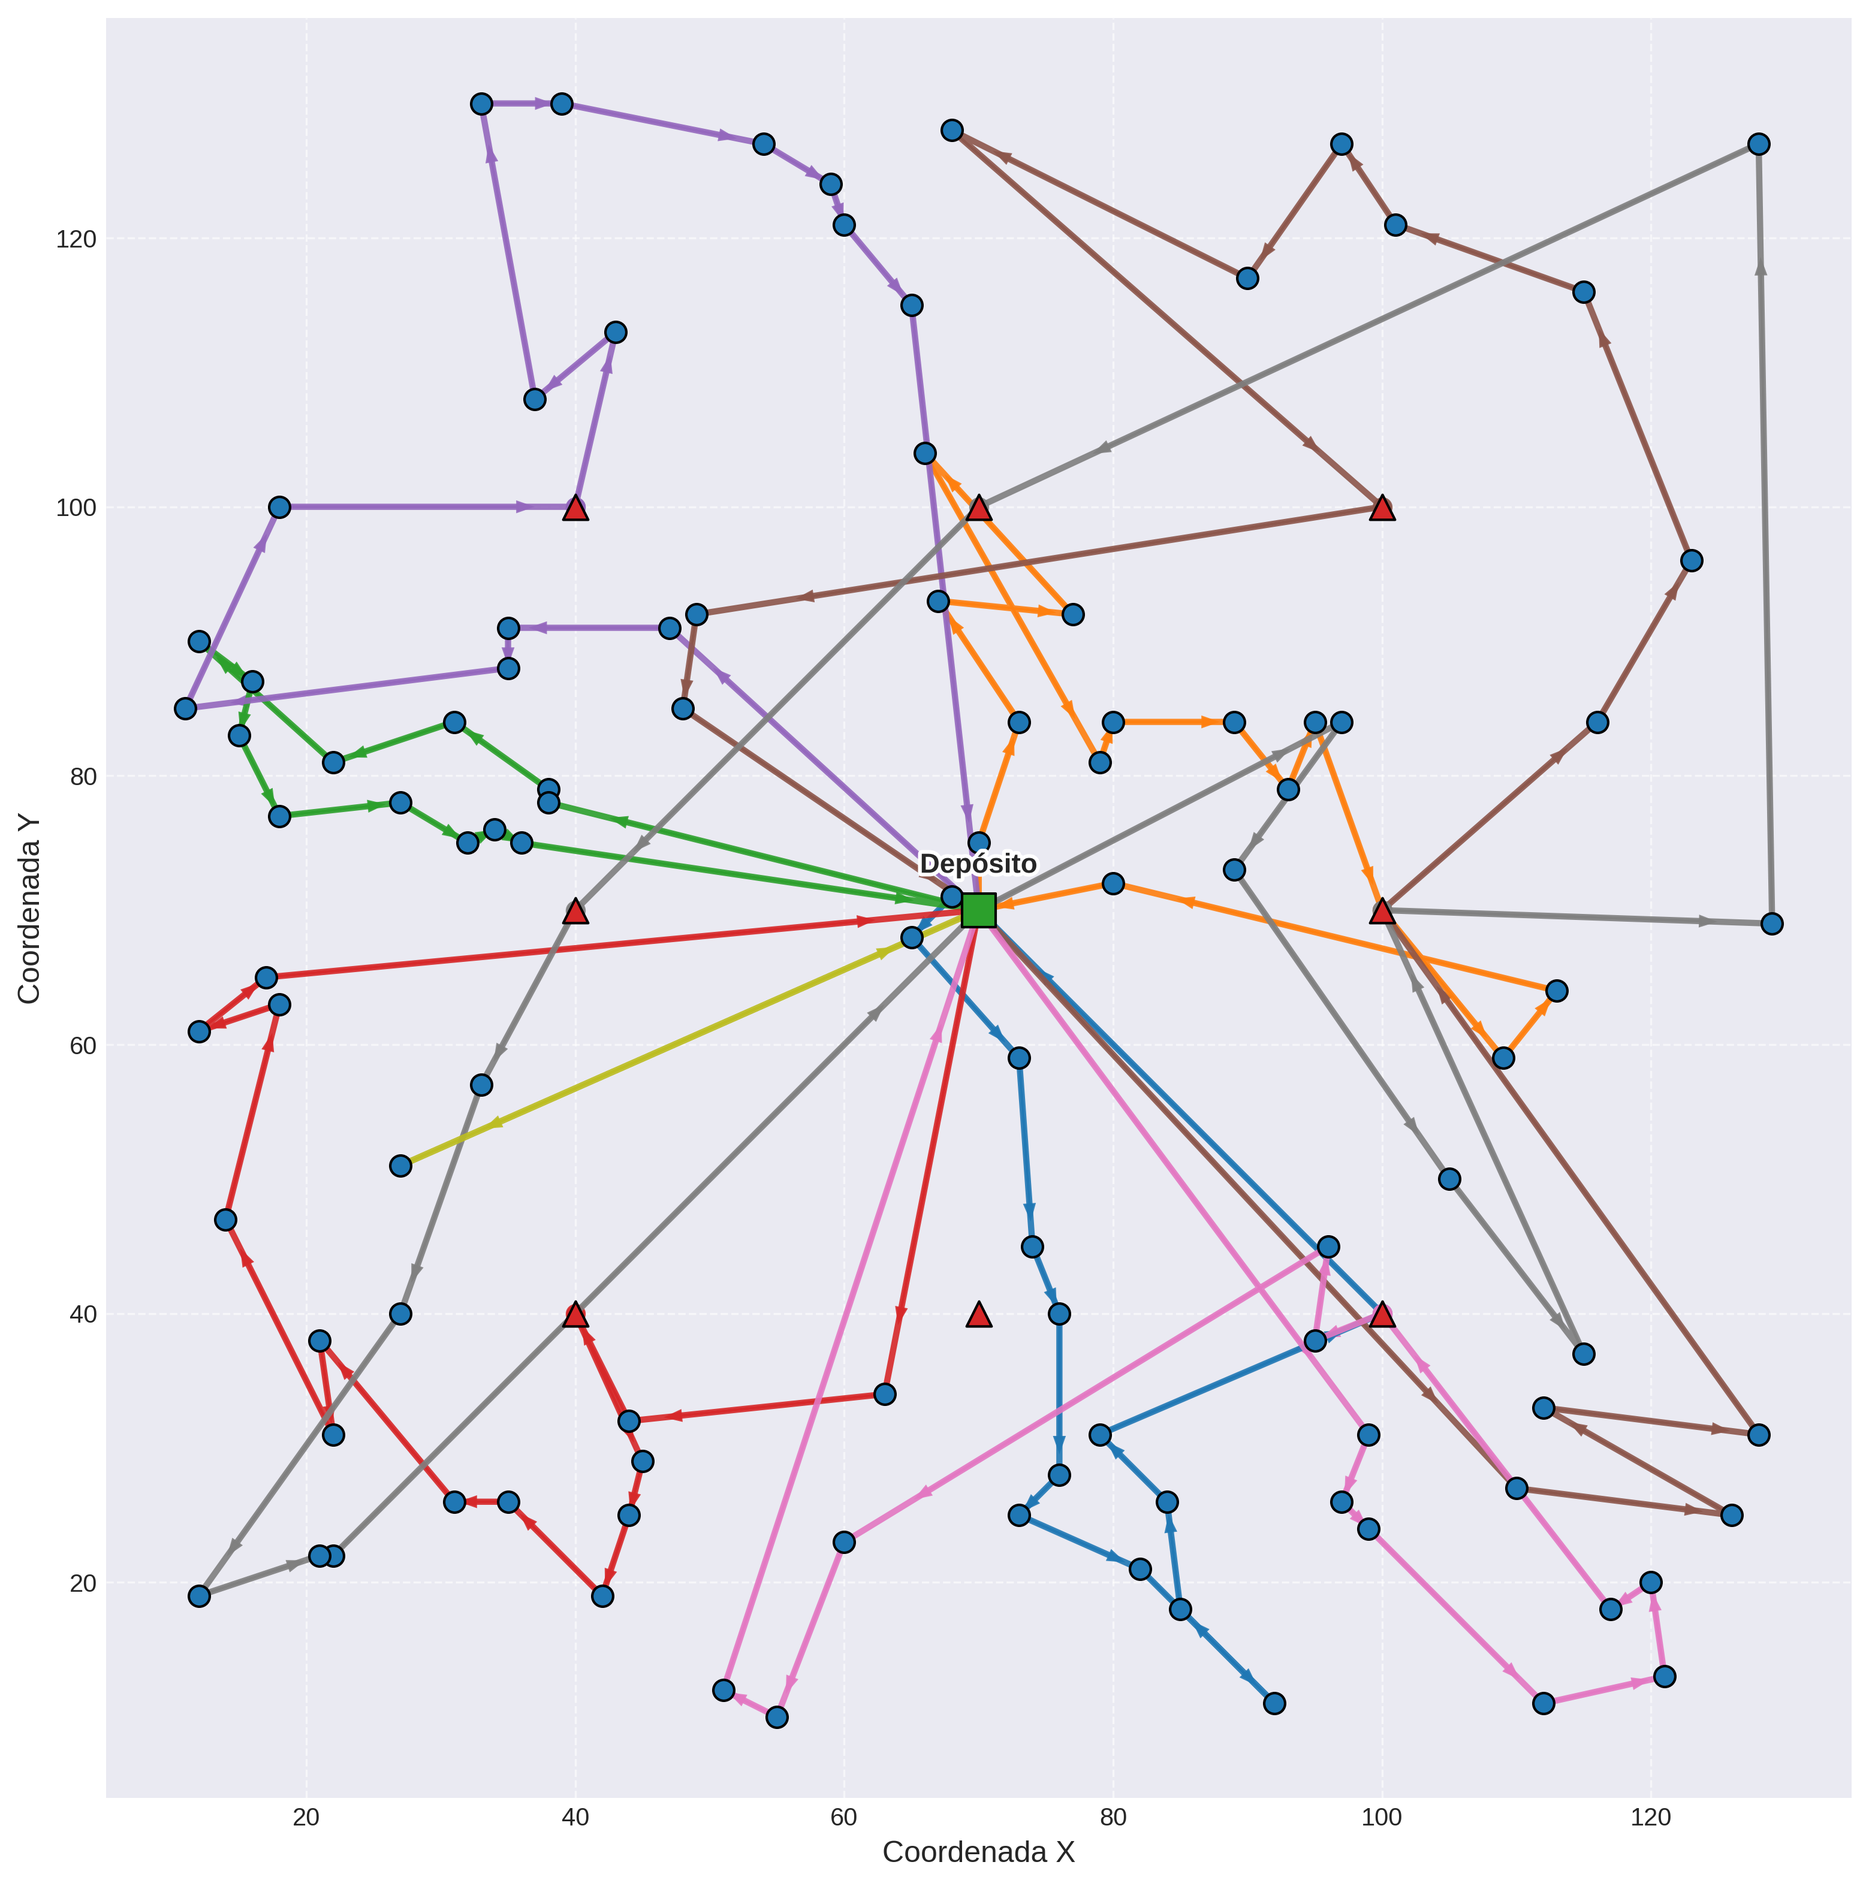
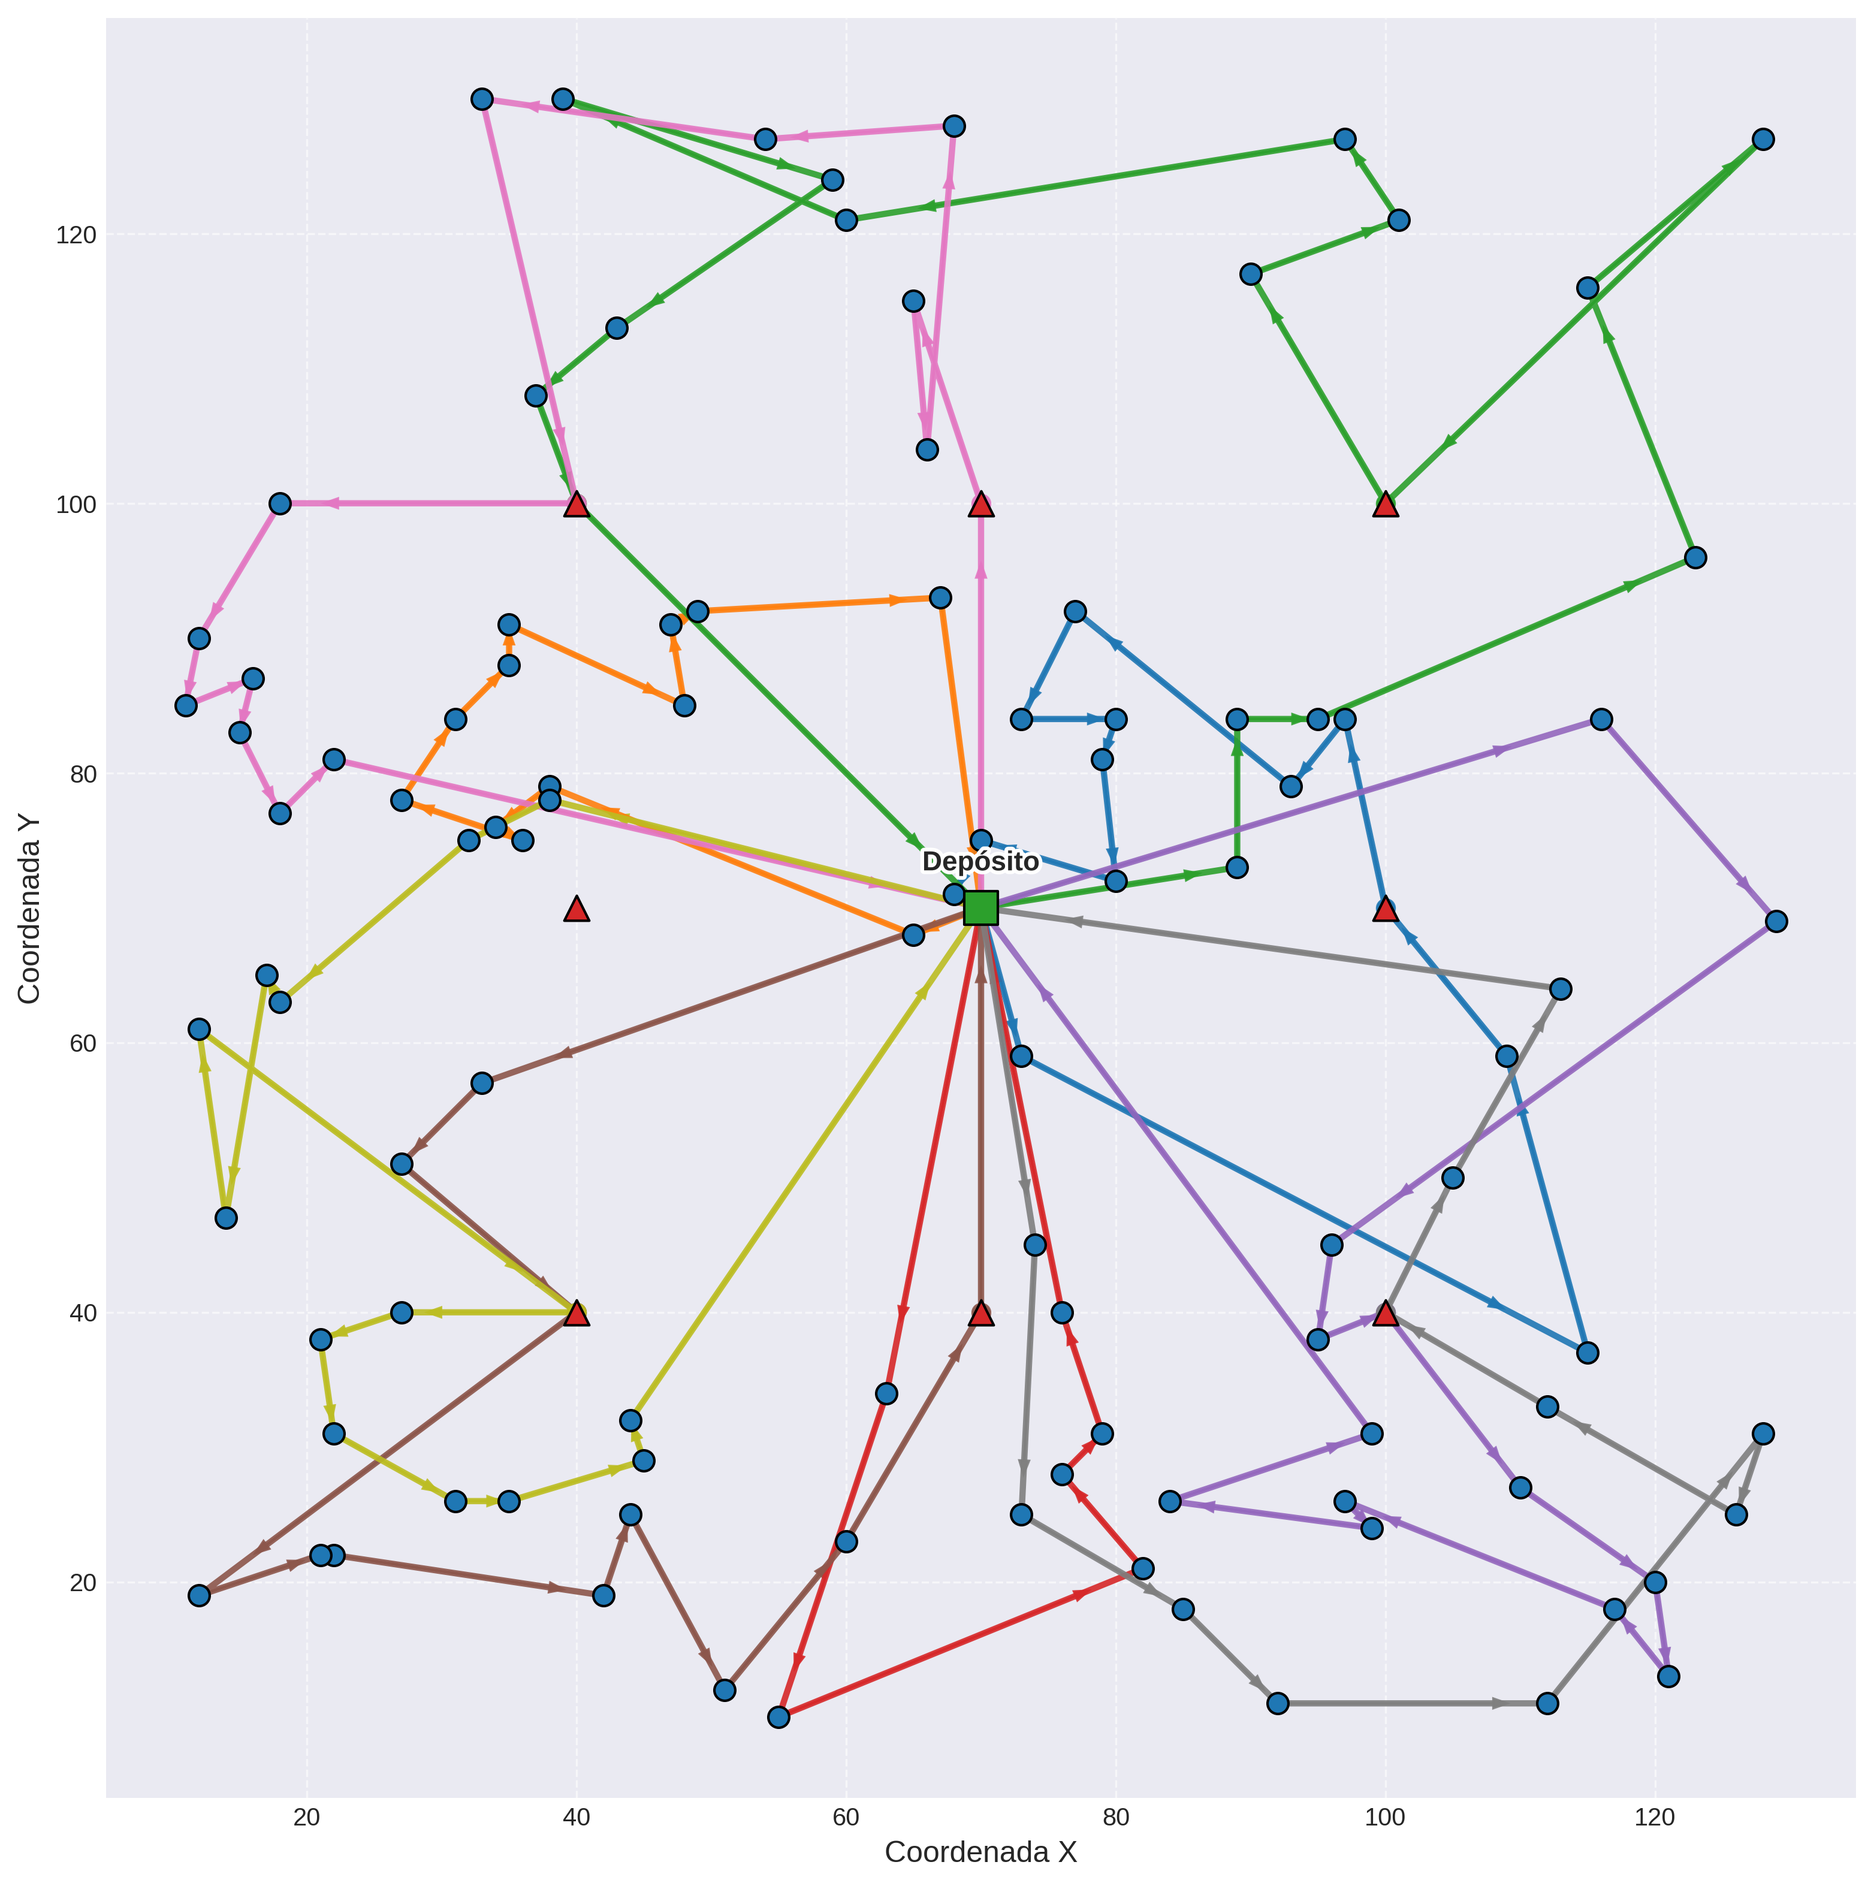
adjust 2opt*

diff --git a/src/EVRP/local_search/two_opt_star.py b/src/EVRP/local_search/two_opt_star.py
@@ -15,174 +15,109 @@ class TwoOptStar:
 
     def local_search(self, solution: 'Solution') -> bool:
         """
-        Apply 2-opt* to all routes in a solution.
+        Apply 2-opt star to all route pairs in a solution.
         Returns True if any improvement was made, False otherwise.
         """
         if len(solution.routes) < 2:
             return False
-            
+        
         return self.two_opt_star(solution)
     
     def perturbation(self, solution: 'Solution') -> 'Solution':
         """
-        Apply 2-opt* perturbation to all routes in a solution.
-        Returns the modified solution.
+        Apply 2-opt star perturbation to all route pairs in a solution.
         """
-        self.two_opt_star(solution)
+        for _ in range(self.max_iter):
+            self.local_search(solution)
+        
         return solution
     
     def two_opt_star(self, solution: 'Solution') -> bool:
         """
-        Apply 2-opt* inter-route optimization.
-        Two deliveries, gi∈Ra and gj∈Rb (a≠b), are chosen. Then, the edges connecting 
-        gi to gi+1 and gj to gj+1 are removed. Two new edges are added adjoining 
-        gi with gj+1 and gj with gi+1.
-        
+        Apply 2-opt star inter-route optimization using random selection.
+        Swaps tails between two routes to improve the solution.
         Returns True if any improvement was made, False otherwise.
         """
         if len(solution.routes) < 2:
             return False
+        
+        improved = True
+        total_improvements = 0
+        max_attempts = 50  # Maximum number of random attempts per iteration
+        
+        while improved:
+            improved = False
+            attempts = 0
             
-        # Find all customer positions across all routes
-        customer_positions = self._get_customer_positions(solution)
-        
-        if len(customer_positions) < 2:
-            return False
-        
-        best_improvement = None
-        best_delta = 0
-        
-        # Try all possible 2-opt* moves
-        for i, (route_a_idx, pos_i) in enumerate(customer_positions):
-            for j, (route_b_idx, pos_j) in enumerate(customer_positions[i+1:], i+1):
-                if route_a_idx == route_b_idx:
-                    continue  # Skip same route
+            while attempts < max_attempts and not improved:
+                attempts += 1
                 
-                # Calculate improvement for this move
-                delta = self._calculate_move_delta(solution, route_a_idx, pos_i, route_b_idx, pos_j)
+                # Randomly select two different routes
+                route_indices = random.sample(range(len(solution.routes)), 2)
+                i, j = route_indices[0], route_indices[1]
                 
-                if delta > best_delta:
-                    best_improvement = (route_a_idx, pos_i, route_b_idx, pos_j)
-                    best_delta = delta
+                route_a = solution.routes[i]
+                route_b = solution.routes[j]
+                
+                # Skip if routes are too short (need at least depot + 1 node + depot)
+                if len(route_a.nodes) <= 3 or len(route_b.nodes) <= 3:
+                    continue
+                
+                # Randomly select cut positions in both routes
+                cut_a = random.randint(1, len(route_a.nodes) - 2)  # Skip depot positions
+                cut_b = random.randint(1, len(route_b.nodes) - 2)  # Skip depot positions
+                
+                # Create new routes by swapping tails
+                new_route_a, new_route_b = self._swap_tails(route_a, route_b, cut_a, cut_b)
+                
+                # Evaluate the new routes
+                new_route_a.evaluate(self.instance)
+                new_route_b.evaluate(self.instance)
+                
+                # Check if both routes are feasible and better
+                if (new_route_a.is_feasible and new_route_b.is_feasible and
+                    self._is_improvement(route_a, route_b, new_route_a, new_route_b)):
+                    
+                    # Accept the swap
+                    route_a.nodes = new_route_a.nodes
+                    route_a.charging_decisions = new_route_a.charging_decisions
+                    route_a.evaluate(self.instance)
+                    
+                    route_b.nodes = new_route_b.nodes
+                    route_b.charging_decisions = new_route_b.charging_decisions
+                    route_b.evaluate(self.instance)
+                    
+                    improved = True
+                    total_improvements += 1
         
-        # Apply the best improvement if found
-        if best_improvement and best_delta > 0:
-            self._apply_move(solution, *best_improvement)
-            solution.evaluate()
-            return True
-        
-        return False
+        return total_improvements > 0
     
-    def _get_customer_positions(self, solution: 'Solution') -> List[Tuple[int, int]]:
+    def _swap_tails(self, route_a: Route, route_b: Route, cut_a: int, cut_b: int) -> Tuple[Route, Route]:
         """
-        Get all customer positions across all routes.
-        Returns list of (route_index, position_in_route) tuples.
+        Create new routes by swapping tails after cut positions.
         """
-        positions = []
-        for route_idx, route in enumerate(solution.routes):
-            for pos, node in enumerate(route.nodes):
-                if node.type == NodeType.CUSTOMER:
-                    positions.append((route_idx, pos))
-        return positions
+        new_route_a = copy.deepcopy(route_a)
+        new_route_b = copy.deepcopy(route_b)
+        
+        # Swap tails: route_a gets head of route_a + tail of route_b
+        # route_b gets head of route_b + tail of route_a
+        new_route_a.nodes = route_a.nodes[:cut_a] + route_b.nodes[cut_b:]
+        new_route_b.nodes = route_b.nodes[:cut_b] + route_a.nodes[cut_a:]
+        
+        return new_route_a, new_route_b
     
-    def _calculate_move_delta(self, solution: 'Solution', route_a_idx: int, pos_i: int, 
-                           route_b_idx: int, pos_j: int) -> float:
+    def _is_improvement(self, old_route_a: Route, old_route_b: Route, 
+                       new_route_a: Route, new_route_b: Route) -> bool:
         """
-        Calculate the improvement (delta) of a 2-opt* move.
-        Positive delta means improvement.
+        Check if the new route pair is better than the old one.
         """
-        route_a = solution.routes[route_a_idx]
-        route_b = solution.routes[route_b_idx]
+        old_total_cost = old_route_a.total_cost + old_route_b.total_cost
+        old_total_distance = old_route_a.total_distance + old_route_b.total_distance
         
-        # Get the nodes involved in the move
-        gi = route_a.nodes[pos_i]  # Customer i in route A
-        gi_plus_1 = route_a.nodes[pos_i + 1]  # Next node after gi in route A
+        new_total_cost = new_route_a.total_cost + new_route_b.total_cost
+        new_total_distance = new_route_a.total_distance + new_route_b.total_distance
         
-        gj = route_b.nodes[pos_j]  # Customer j in route B  
-        gj_plus_1 = route_b.nodes[pos_j + 1]  # Next node after gj in route B
-        
-        # Calculate current edge costs
-        current_cost_a = self.instance.distance_matrix[gi.id][gi_plus_1.id]
-        current_cost_b = self.instance.distance_matrix[gj.id][gj_plus_1.id]
-        current_total = current_cost_a + current_cost_b
-        
-        # Calculate new edge costs
-        new_cost_a = self.instance.distance_matrix[gi.id][gj_plus_1.id]
-        new_cost_b = self.instance.distance_matrix[gj.id][gi_plus_1.id]
-        new_total = new_cost_a + new_cost_b
-        
-        # Delta is the improvement (negative means worse)
-        delta = current_total - new_total
-        
-        # Check if the move would create feasible routes
-        if not self._is_move_feasible(solution, route_a_idx, pos_i, route_b_idx, pos_j):
-            return -float('inf')  # Make this move very unattractive
-        
-        return delta
-    
-    def _is_move_feasible(self, solution: 'Solution', route_a_idx: int, pos_i: int, 
-                        route_b_idx: int, pos_j: int) -> bool:
-        """
-        Check if a 2-opt* move would result in feasible routes.
-        """
-        # Create temporary copies to test feasibility
-        temp_solution = self._copy_solution(solution)
-        
-        # Apply the move to temporary solution
-        self._apply_move(temp_solution, route_a_idx, pos_i, route_b_idx, pos_j)
-        
-        # Evaluate both affected routes
-        temp_solution.routes[route_a_idx].evaluate(self.instance)
-        temp_solution.routes[route_b_idx].evaluate(self.instance)
-        
-        # Check if both routes are feasible
-        return (temp_solution.routes[route_a_idx].is_feasible and 
-                temp_solution.routes[route_b_idx].is_feasible)
-    
-    def _apply_move(self, solution: 'Solution', route_a_idx: int, pos_i: int, 
-                   route_b_idx: int, pos_j: int) -> None:
-        """
-        Apply a 2-opt* move to the solution.
-        """
-        route_a = solution.routes[route_a_idx]
-        route_b = solution.routes[route_b_idx]
-        
-        # Get the segments to swap
-        # Route A: [..., gi, gi+1, ...] -> [..., gi, gj+1, ...]
-        # Route B: [..., gj, gj+1, ...] -> [..., gj, gi+1, ...]
-        
-        # Extract the segments
-        gi = route_a.nodes[pos_i]
-        gi_plus_1 = route_a.nodes[pos_i + 1]
-        gj = route_b.nodes[pos_j]
-        gj_plus_1 = route_b.nodes[pos_j + 1]
-        
-        # Apply the swap
-        route_a.nodes[pos_i + 1] = gj_plus_1
-        route_b.nodes[pos_j + 1] = gi_plus_1
-        
-        # Clear route evaluations to force re-evaluation
-        route_a.total_distance = 0
-        route_a.total_cost = 0
-        route_a.total_time = 0
-        route_a.is_feasible = False
-        
-        route_b.total_distance = 0
-        route_b.total_cost = 0
-        route_b.total_time = 0
-        route_b.is_feasible = False
-    
-    def _copy_solution(self, solution: 'Solution') -> 'Solution':
-        """Create a deep copy of the solution for testing moves."""
-        from EVRP.solution import Solution
-        
-        new_solution = Solution(solution.instance)
-        new_solution.routes = []
-        
-        for route in solution.routes:
-            new_route = Route()
-            new_route.nodes = route.nodes.copy()
-            new_route.charging_decisions = route.charging_decisions.copy()
-            new_solution.routes.append(new_route)
-        
-        return new_solution
+        # Check if new solution is better (lower cost or distance)
+        return (new_total_cost < old_total_cost or 
+                (new_total_cost == old_total_cost and new_total_distance < old_total_distance))
+   

diff --git a/src/EVRP/GVNS.py b/src/EVRP/GVNS.py
@@ -29,17 +29,15 @@ import random
 import copy
 from typing import List, Tuple
 from EVRP.solution import Solution
-from EVRP.local_search.two_opt import TwoOpt
 
 class GVNS:
-    def __init__(self, instance, two_opt: TwoOpt, 
+    def __init__(self, instance, 
                  ns: int = 5, na: int = 50, ls_max_iter: int = 10,  max_evaluations: int = 10000, perturbation = [], local_search = []):
         """
         Inicializa o algoritmo GVNS
         
         Args:
             instance: Instância do problema EVRP
-            two_opt: Objeto TwoOpt para busca local
             ns: Número de soluções a serem geradas por busca local
             na: Número máximo de soluções no arquivo A
             ls_max_iter: Número máximo de tentativas de busca local
@@ -47,7 +45,6 @@ class GVNS:
             max_evaluations: Número máximo de avaliações
         """
         self.instance = instance
-        self.two_opt = two_opt
         self.ns = ns
         self.na = na
         self.ls_max_iter = ls_max_iter

diff --git a/src/process_single.py b/src/process_single.py
@@ -43,13 +43,12 @@ def process_single_instance(instance_file):
     print("\n" + "="*70)
     gvns = GVNS(
         instance=instance,
-        two_opt=twoOpt,
         ns=5,           # Número de soluções por busca local
         na=50,          # Tamanho máximo do arquivo A
         ls_max_iter=10, # Máximo de tentativas de busca local
-        max_evaluations=1000,  # Máximo de avaliações,
-        local_search=[twoOptStar, twoOpt],
-        perturbation=[twoOptStar, twoOpt]
+        max_evaluations=3000,  # Máximo de avaliações,
+        local_search=[twoOpt, twoOptStar],
+        perturbation=[twoOpt, twoOptStar]
     )
             
     

diff --git a/src/process_all.py b/src/process_all.py
@@ -69,7 +69,6 @@ def process_all_instances():
             print("Executando GVNS...")
             gvns = GVNS(
                 instance=instance,
-                two_opt=twoOpt,
                 ns=5,           # Número de soluções por busca local
                 na=50,          # Tamanho máximo do arquivo A
                 ls_max_iter=500, # Máximo de tentativas de busca local
